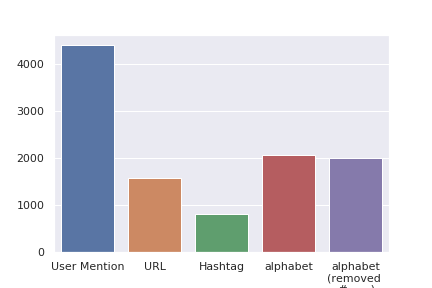
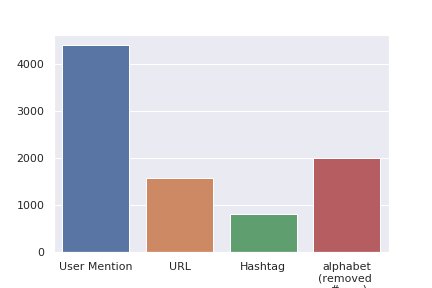
2020-08-23

diff --git a/count_the_number.py b/count_the_number.py
@@ -52,59 +52,63 @@ def count_the_number_of_hashtag(tweets_list):
             
     return hashtag_cnt
 
+def count_w(tweets_list):
+    hashtag_cnt = 0
+    hashtag_list = []
+
+    for tweet in tweets_list:
+        if re.search(r'ww+', tweet) is not None:
+            hashtag_list.append(tweet)
+
+    for tweet in tweets_list:
+        if tweet[-1] == str:
+            if tweet[-1] == 'w':
+                hashtag_list.append(tweet)
+
+    hashtag_list = list(set(hashtag_list))
+
+    hashtag_cnt = len(hashtag_list)
+            
+    return hashtag_cnt, hashtag_list
+
+
+
 def count_the_number_of_w(tweets_list):
     '''
     wの数を数える（末尾）
-    '''
-    
-    w_cnt = 0
-    w_list = []
-    w_not_list = []
-    
-    for tweet in tweets_list:
-        
-        if len(tweet) == 0:
+    if len(tweet) == 0:
             continue
-        if tweet[-1]=='w':
-            w_cnt += 1
-            w_list.append(tweet)
-        else:
-            w_not_list.append(tweet)
+    '''
+    
+    w_list = []
+    
+    for tweet in tweets_list:
+        contexts = tweet.strip()
+        for context in contexts:
+            if context[-1]=='w':
+                w_list.append(tweet)
+                break
         
-    for tweet in w_not_list:
+    for tweet in tweets_list:
         if re.search(r'ww+', tweet) is not None:
-            w_cnt += 1
-            w_list.append(tweet)
-        else:
-            w_not_list.append(tweet)
+            if tweet[-1] != 'w':
+                w_list.append(tweet)
 
-    return w_cnt, w_list
+    w_list = list(set(w_list))
 
-def count_the_number_of_possibility_of_w(tweets_list, warai_tweets):
+    return w_list
+
+def count_the_number_of_not_single(tweets_list):
     '''
-    wで可能性のあるものを考える
+    英単語２文字以上のものをかぞえる
     '''
-    
-    
-    possibility_of_w_cnt = 0
-    possibility_of_w_list = []
-    
+
+    not_single_list = []
 
     for tweet in tweets_list:
-        if re.search(r'w', tweet) is not None:
-            possibility_of_w_cnt += 1
-            possibility_of_w_list.append(tweet)
-
-    w_cnt = len(possibility_of_w_list)
-    w_list = []
+        if re.search(r'[a-zA-Z][a-zA-Z]+', tweet) is not None:
+            not_single_list.append(tweet)
             
-    for search_tweet in possibility_of_w_list:
-        for warai_tweet in warai_tweets:
-            if search_tweet == warai_tweet:
-                w_cnt -= 1
-                break
-        #w_list.append(search_tweet)
-            
-    return possibility_of_w_cnt, possibility_of_w_list, w_cnt, w_list
+    return not_single_list
 
 
